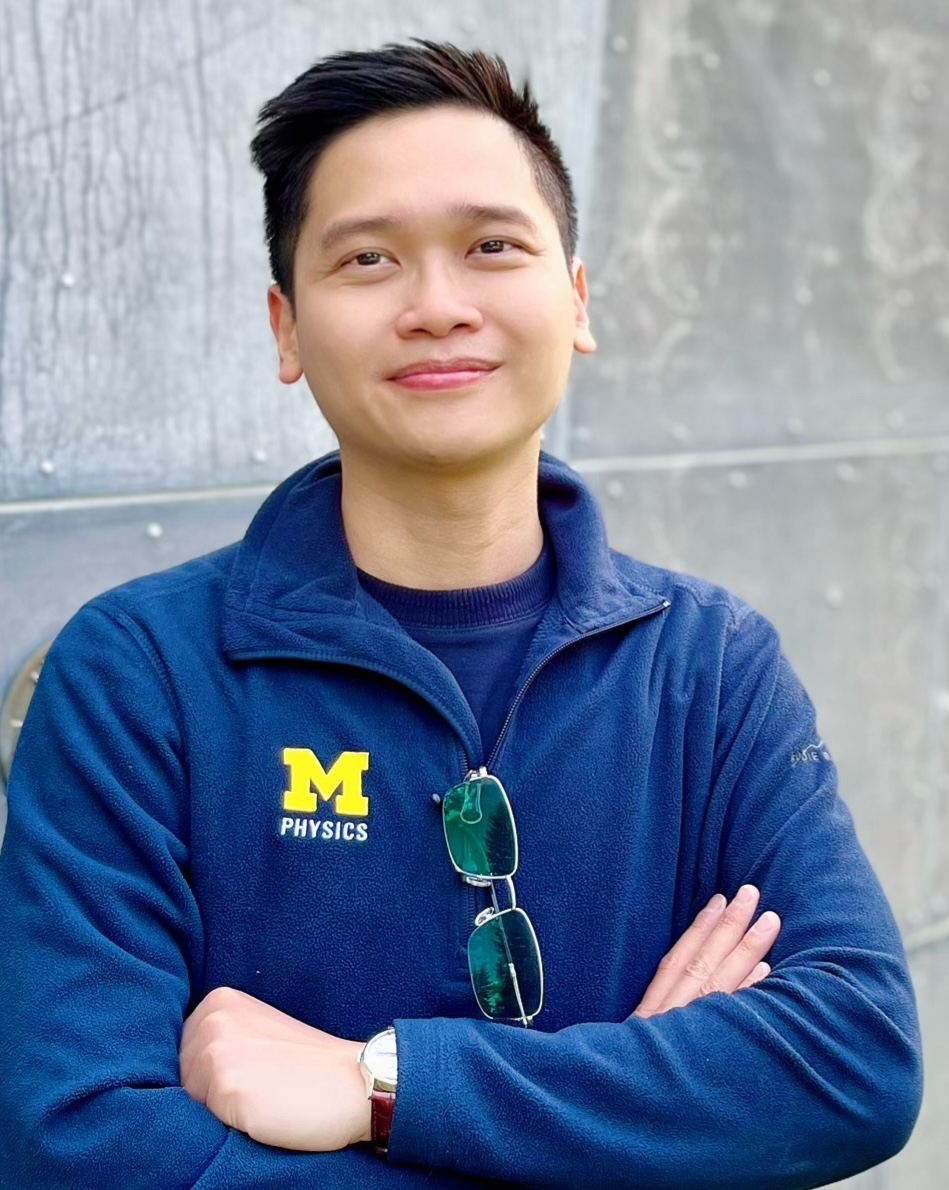
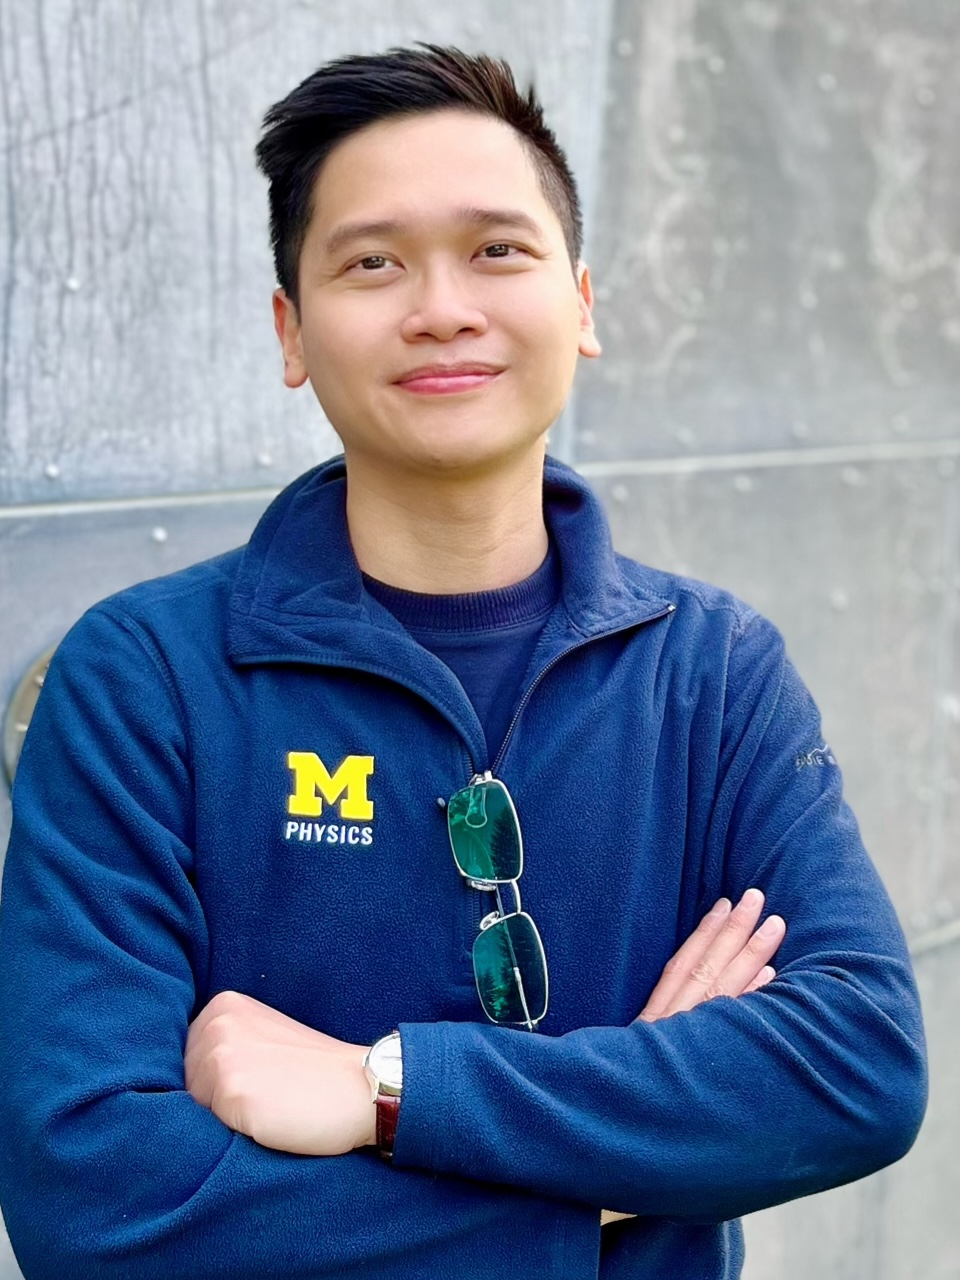
Update profile pic position

diff --git a/_layouts/cv.html b/_layouts/cv.html
@@ -5,7 +5,7 @@
   <title> {% if page.title %} {{ page.title }} | {% endif %} CV</title>
   <link href="media/{{ site.style }}-screen.css" type="text/css" rel="stylesheet" media="screen">
   <link href="media/{{ site.style }}-print.css" type="text/css" rel="stylesheet" media="print">
-  <img src="media/new_profile.jpg" width="150", height="150", style="position: relative; left: 200px; top: 100px"></img>
+  <img src="media/new_profile.jpg" width="150", height="200", style="position: relative; left: 185px; top: 115px"></img>
        <script type="text/x-mathjax-config">
          MathJax.Hub.Config({
            tex2jax: {
